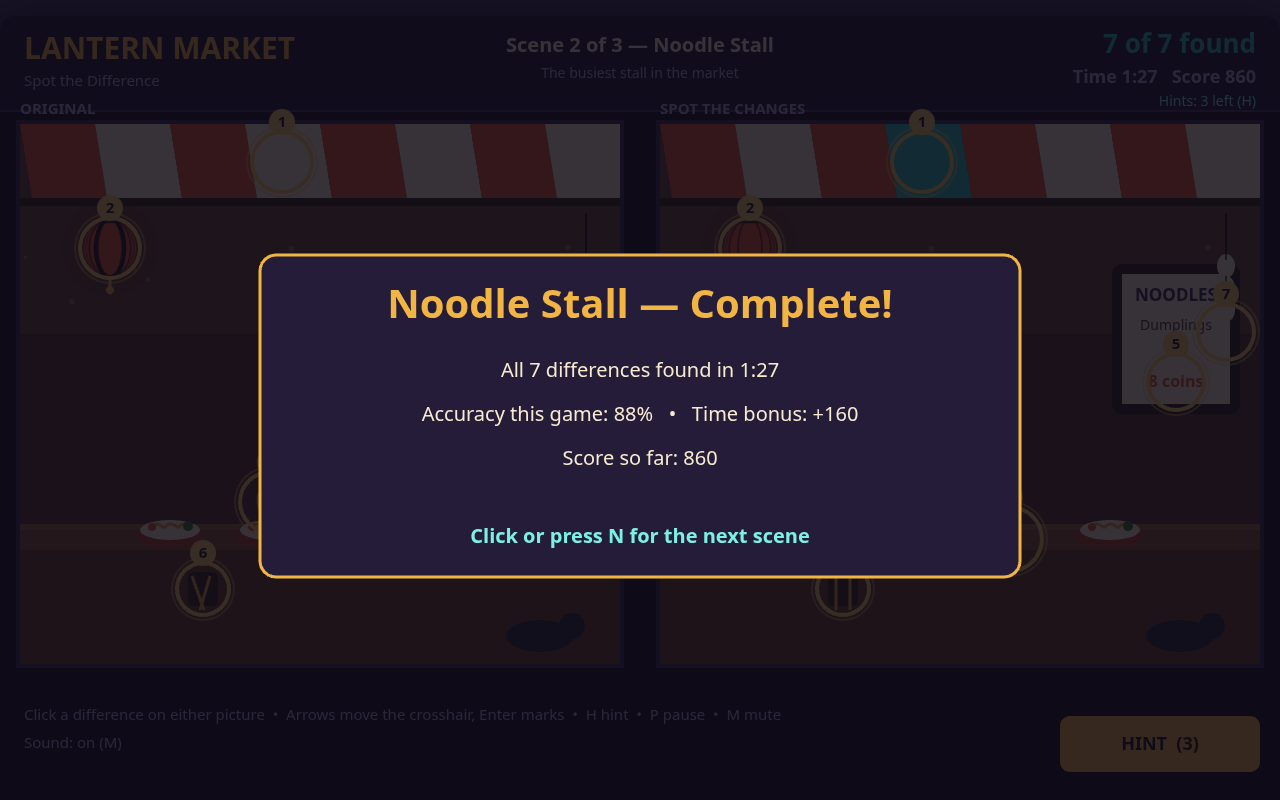
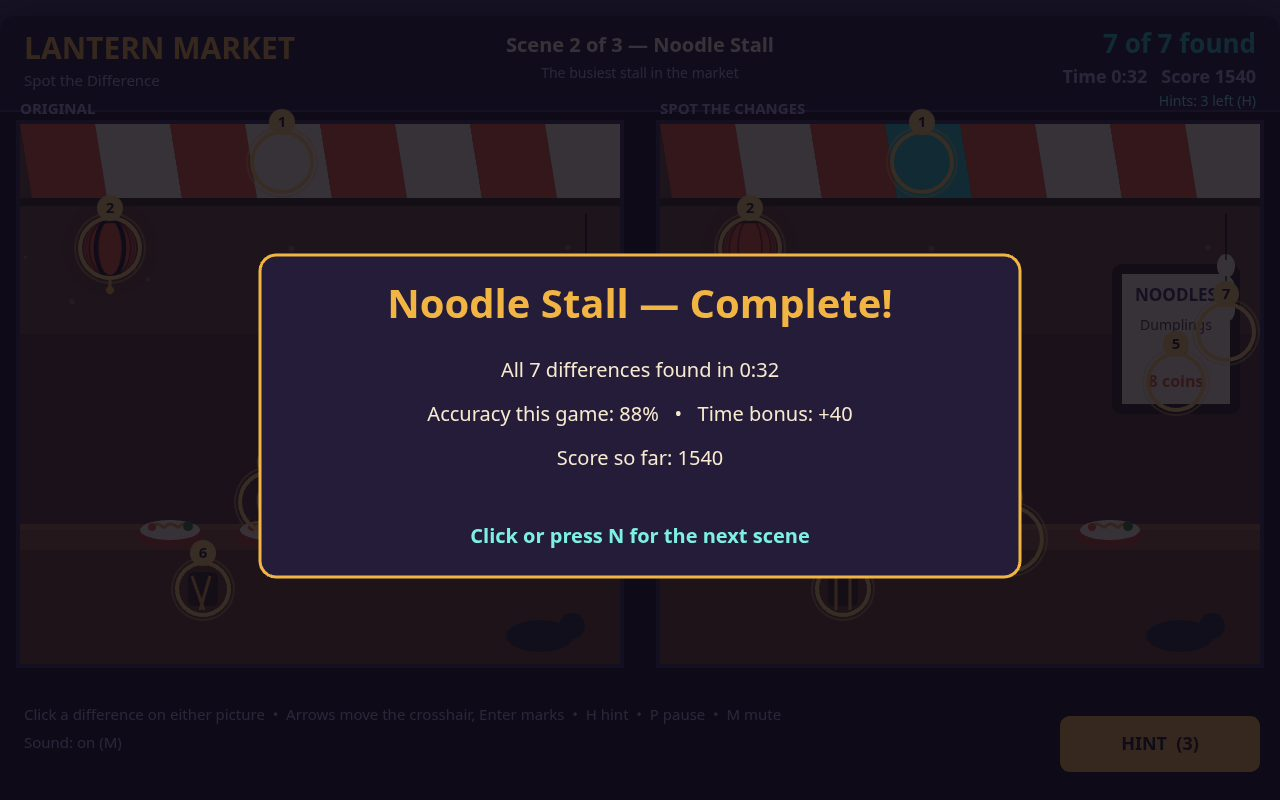
Fix staged HUD scores to match game rules (critic SHOULD-FIX #1)

Changed region(s): [[0.3125, 0.5, 0.6875, 0.5312], [0.4375, 0.5625, 0.5625, 0.5938], [0.5625, 0.4375, 0.5938, 0.4688]]

diff --git a/game/src/shots.js b/game/src/shots.js
@@ -39,7 +39,7 @@ export function stageShot(api, params) {
     const scene = SCENES[params.scene];
     game.found = new Set(scene.differences.slice(0, params.found).map((d) => d.id));
     game.foundOrder = scene.differences.slice(0, params.found).map((d) => d.id);
-    game.score = params.found * 100;
+    game.score = params.found * 100 - 25; // 3 finds x 100, minus the 25-point hint already spent (hintsLeft 2) = 275
     game.clicks = params.found + 1;
     game.wrongClicks = 1;
     game.sceneStartedAt = now - 87400; // 1:27 on the clock
@@ -58,12 +58,15 @@ export function stageShot(api, params) {
     const scene = SCENES[params.scene];
     game.found = new Set(scene.differences.map((d) => d.id));
     game.foundOrder = scene.differences.map((d) => d.id);
-    game.score = 700 + 160;
+    // Scene 1: 20 s -> bonus 200 - 5*20 = 100 (700 finds + 100 = 800).
+    // Scene 2: 32 s -> bonus 200 - 5*32 = 40 (700 finds + 40 = 740).
+    // Score so far: 800 + 740 = 1540.
+    game.score = 1540;
     game.clicks = 8;
     game.wrongClicks = 1;
-    game.sceneTimesMs = [87400];
-    game.sceneScores = [160];
-    game.sceneElapsedMs = 87400;
+    game.sceneTimesMs = [20000, 32000];
+    game.sceneScores = [100, 40];
+    game.sceneElapsedMs = 32000;
     return true;
   }
 
@@ -73,12 +76,15 @@ export function stageShot(api, params) {
     const scene = SCENES[2];
     game.found = new Set(scene.differences.map((d) => d.id));
     game.foundOrder = scene.differences.map((d) => d.id);
-    game.score = 2340;
+    // Scenes: 20 s -> +100, 32 s -> +40, 44 s -> max(0, 200 - 5*44) = 0.
+    // Finds 21 x 100 = 2100, bonuses 100 + 40 + 0 = 140, total 2240.
+    // Total time 20 + 32 + 44 = 96 s = 1:36.
+    game.score = 2240;
     game.clicks = 24;
     game.wrongClicks = 3;
-    game.sceneTimesMs = [87400, 121000, 156000];
-    game.sceneScores = [160, 120, 90];
-    game.sceneElapsedMs = 156000;
+    game.sceneTimesMs = [20000, 32000, 44000];
+    game.sceneScores = [100, 40, 0];
+    game.sceneElapsedMs = 44000;
     return true;
   }
 
